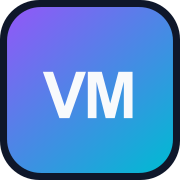
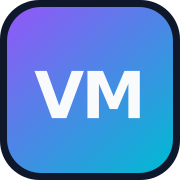
Adiciona sitemap, robots.txt e melhorias de SEO para indexação no Google.
Inclui meta tags Open Graph/Twitter, JSON-LD Person, canonical URL, configuração Vercel e atualização do e-mail de contato.

Changed region(s): [[0.1944, 0.3889, 0.7778, 0.6667]]

diff --git a/src/index.html b/src/index.html
@@ -10,7 +10,11 @@
       content="Portfólio de Vitor Melo da Silva — Desenvolvedor Full Stack Pleno e Tech Lead especializado em Angular, NestJS, Laravel, Docker e CI/CD."
     />
     <meta name="author" content="Vitor Melo da Silva" />
-    <meta name="keywords" content="Vitor Melo, Full Stack, Angular, Tech Lead, NestJS, Laravel, Maceió" />
+    <meta name="keywords" content="Vitor Melo, Full Stack, Angular, Tech Lead, NestJS, Laravel, Maceió, Desenvolvedor Web" />
+    <meta name="robots" content="index, follow, max-image-preview:large" />
+    <meta name="theme-color" content="#0f172a" />
+    <link rel="canonical" href="https://vmsvitor.code-byte.com/" />
+    <link rel="sitemap" type="application/xml" href="/sitemap.xml" />
 
     <!-- Open Graph -->
     <meta property="og:title" content="Vitor Melo da Silva | Desenvolvedor Full Stack Pleno" />
@@ -19,8 +23,10 @@
       content="Portfólio profissional de Vitor Melo — Full Stack Pleno e Tech Lead com experiência em Angular, Vue.js, NestJS e DevSecOps."
     />
     <meta property="og:type" content="website" />
-    <meta property="og:url" content="https://vmsvitor.code-byte.com" />
+    <meta property="og:url" content="https://vmsvitor.code-byte.com/" />
+    <meta property="og:site_name" content="Vitor Melo da Silva" />
     <meta property="og:locale" content="pt_BR" />
+    <meta property="og:image" content="https://vmsvitor.code-byte.com/apple-touch-icon.png" />
 
     <!-- Twitter Card -->
     <meta name="twitter:card" content="summary_large_image" />
@@ -29,6 +35,39 @@
       name="twitter:description"
       content="Portfólio de Vitor Melo — Desenvolvedor Full Stack Pleno e Tech Lead."
     />
+    <meta name="twitter:image" content="https://vmsvitor.code-byte.com/apple-touch-icon.png" />
+
+    <script type="application/ld+json">
+      {
+        "@context": "https://schema.org",
+        "@type": "Person",
+        "name": "Vitor Melo da Silva",
+        "url": "https://vmsvitor.code-byte.com/",
+        "image": "https://vmsvitor.code-byte.com/apple-touch-icon.png",
+        "jobTitle": "Desenvolvedor Full Stack Pleno | Tech Lead",
+        "description": "Desenvolvedor Full Stack com mais de 4 anos de experiência em aplicações web, APIs robustas e liderança técnica.",
+        "email": "mailto:[email redacted]",
+        "address": {
+          "@type": "PostalAddress",
+          "addressLocality": "Maceió",
+          "addressRegion": "AL",
+          "addressCountry": "BR"
+        },
+        "sameAs": [
+          "https://github.com/VitorMeloDS",
+          "https://www.linkedin.com/in/vitor-melo-ds/"
+        ],
+        "knowsAbout": [
+          "Angular",
+          "NestJS",
+          "Laravel",
+          "TypeScript",
+          "Docker",
+          "CI/CD",
+          "DevSecOps"
+        ]
+      }
+    </script>
 
     <link rel="icon" href="favicon.svg" type="image/svg+xml" />
     <link rel="icon" href="favicon.ico" sizes="48x48" />

diff --git a/src/app/core/services/seo.service.ts b/src/app/core/services/seo.service.ts
@@ -1,3 +1,4 @@
+import { DOCUMENT } from '@angular/common';
 import { Injectable, inject } from '@angular/core';
 import { Meta, Title } from '@angular/platform-browser';
 
@@ -12,21 +13,45 @@ export interface SeoConfig {
 export class SeoService {
   private readonly title = inject(Title);
   private readonly meta = inject(Meta);
+  private readonly document = inject(DOCUMENT);
 
   update(config: SeoConfig): void {
     const fullTitle = `${config.title} | Portfólio`;
     this.title.setTitle(fullTitle);
 
     this.meta.updateTag({ name: 'description', content: config.description });
+    this.meta.updateTag({ name: 'robots', content: 'index, follow, max-image-preview:large' });
     this.meta.updateTag({ property: 'og:title', content: fullTitle });
     this.meta.updateTag({ property: 'og:description', content: config.description });
     this.meta.updateTag({ property: 'og:type', content: 'website' });
+    this.meta.updateTag({ property: 'og:site_name', content: 'Vitor Melo da Silva' });
+    this.meta.updateTag({ property: 'og:locale', content: 'pt_BR' });
+    this.meta.updateTag({ name: 'twitter:card', content: 'summary_large_image' });
+    this.meta.updateTag({ name: 'twitter:title', content: fullTitle });
+    this.meta.updateTag({ name: 'twitter:description', content: config.description });
+
+    if (config.url) {
+      this.meta.updateTag({ property: 'og:url', content: config.url });
+      this.meta.updateTag({ name: 'twitter:url', content: config.url });
+      this.setCanonical(config.url);
+    }
 
     if (config.image) {
       this.meta.updateTag({ property: 'og:image', content: config.image });
+      this.meta.updateTag({ name: 'twitter:image', content: config.image });
     }
-    if (config.url) {
-      this.meta.updateTag({ property: 'og:url', content: config.url });
+  }
+
+  private setCanonical(url: string): void {
+    const head = this.document.head;
+    let link = head.querySelector<HTMLLinkElement>("link[rel='canonical']");
+
+    if (!link) {
+      link = this.document.createElement('link');
+      link.setAttribute('rel', 'canonical');
+      head.appendChild(link);
     }
+
+    link.setAttribute('href', url);
   }
 }

diff --git a/src/app/data/portfolio.data.ts b/src/app/data/portfolio.data.ts
@@ -18,14 +18,14 @@ export const PORTFOLIO_DATA: PortfolioData = {
     name: 'Vitor Melo da Silva',
     title: 'Desenvolvedor Full Stack Pleno | Tech Lead',
     location: 'Maceió, AL',
-    email: '[email redacted]',
+    email: '[email redacted]',
     summary:
       'Desenvolvedor Full Stack com mais de 4 anos de experiência em aplicações web, APIs robustas e liderança técnica. Especialista em ecossistemas modernos com foco em qualidade, DevSecOps e automação.',
     highlights: ['Tech Lead', 'APIs REST', 'Testes automatizados', 'Docker', 'CI/CD'],
     socialLinks: [
       { name: 'LinkedIn', url: 'https://www.linkedin.com/in/vitor-melo-ds/', icon: 'linkedin' },
       { name: 'GitHub', url: GITHUB_URL, icon: 'github' },
-      { name: 'E-mail', url: 'mailto:[email redacted]', icon: 'mail' },
+      { name: 'E-mail', url: 'mailto:[email redacted]', icon: 'mail' },
       { name: 'Website', url: SITE_URL, icon: 'globe' },
     ],
     resume: {
@@ -214,7 +214,7 @@ export const PORTFOLIO_DATA: PortfolioData = {
     { id: 'ifal-connect', name: 'Connect tech', issuer: 'IFAL', issuedAt: 'Out 2023' },
   ],
   contactLinks: [
-    { id: 'email', label: 'E-mail', value: '[email redacted]', url: 'mailto:[email redacted]', icon: 'mail', action: 'copy' },
+    { id: 'email', label: 'E-mail', value: '[email redacted]', url: 'mailto:[email redacted]', icon: 'mail', action: 'copy' },
     { id: 'linkedin', label: 'LinkedIn', value: '@vitor-melo-ds', url: 'https://www.linkedin.com/in/vitor-melo-ds/', icon: 'linkedin', action: 'link' },
     { id: 'github', label: 'GitHub', value: '@VitorMeloDS', url: GITHUB_URL, icon: 'github', action: 'link' },
     { id: 'website', label: 'Website', value: 'vmsvitor.code-byte.com', url: SITE_URL, icon: 'globe', action: 'link' },

diff --git a/src/app/app.ts b/src/app/app.ts
@@ -16,7 +16,8 @@ export class App implements OnInit {
     this.seo.update({
       title: PORTFOLIO_DATA.personal.name,
       description: PORTFOLIO_DATA.personal.summary,
-      url: SITE_URL,
+      url: `${SITE_URL}/`,
+      image: `${SITE_URL}/apple-touch-icon.png`,
     });
   }
 }